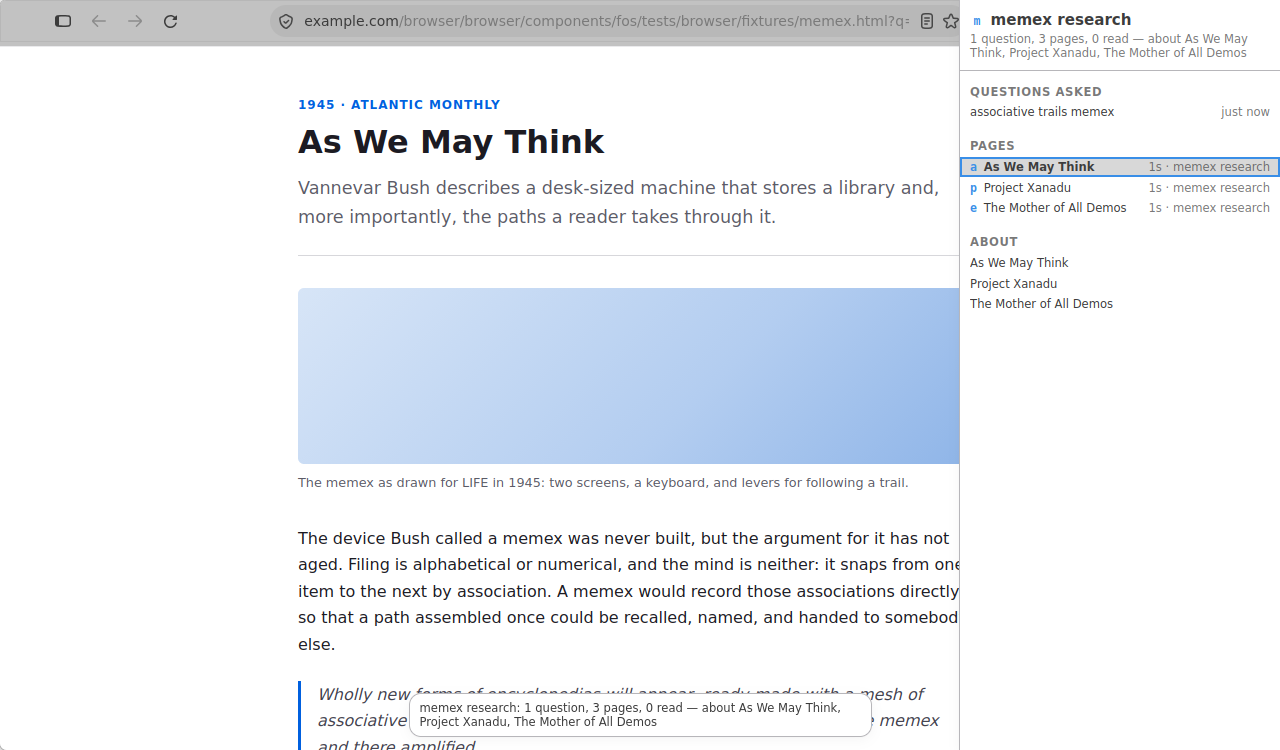
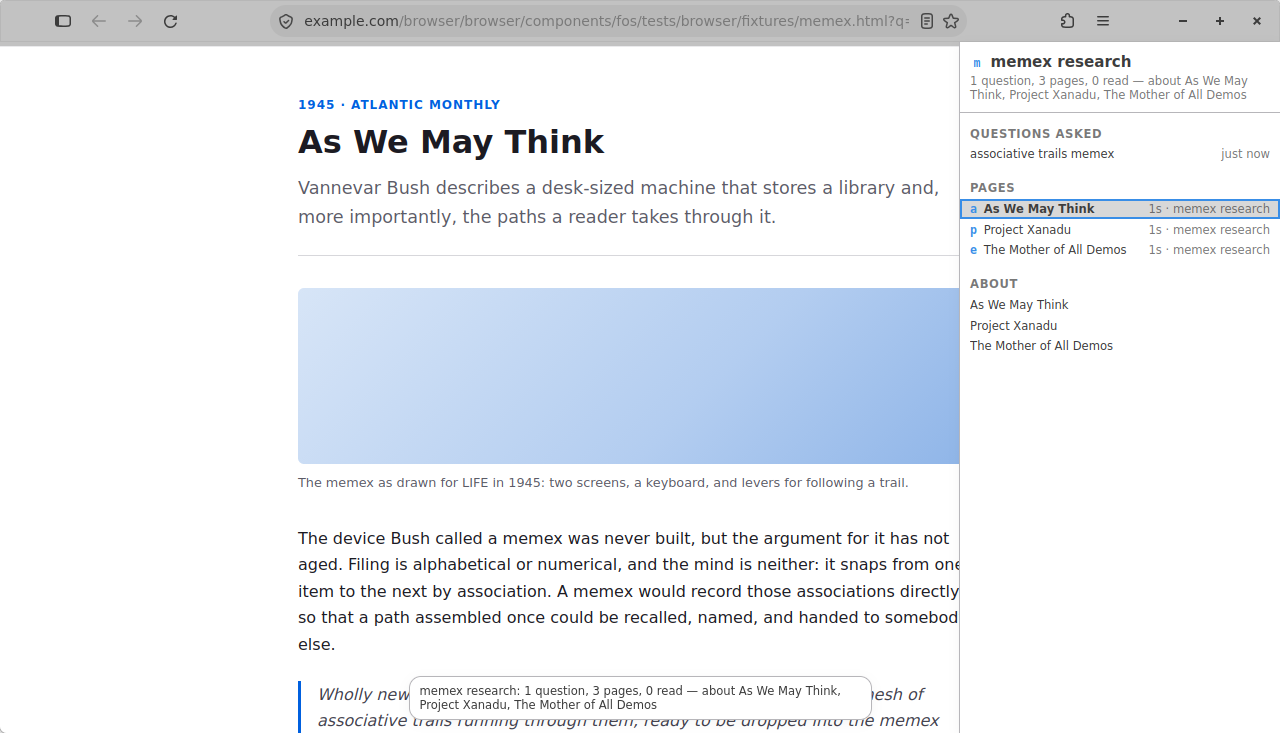
Photograph the other half of the signal
The dot's whole claim is that pressing the key it asks for lands you somewhere
that can say which card it meant, and whether the accent survives the overview
scale — where a miniature is about ten pixels across — is not a thing an
assertion can answer. shot-arrived.png is the answer: the trail wears the dot,
the card wears the outline.

diff --git a/browser/components/fos/tests/browser/browser_zzscreenshots.js b/browser/components/fos/tests/browser/browser_zzscreenshots.js
@@ -280,6 +280,16 @@ add_task(async function take_the_screenshots() {
     "the bar took the mark before it was photographed"
   );
   await shoot("shot-unseen");
+
+  // 7. And the other half of that signal: pressing the key the dot is asking
+  //    for, and finding the Field able to say which card it meant. The tab is
+  //    still open, because the arrival has to still be there to be marked.
+  //    Taken at the overview, which is the level the accent is hardest at — a
+  //    miniature is about ten pixels across here.
+  field().open();
+  await shoot("shot-arrived");
+  field().close();
+
   BrowserTestUtils.removeTab(background);
   field().open();
   field().close();
